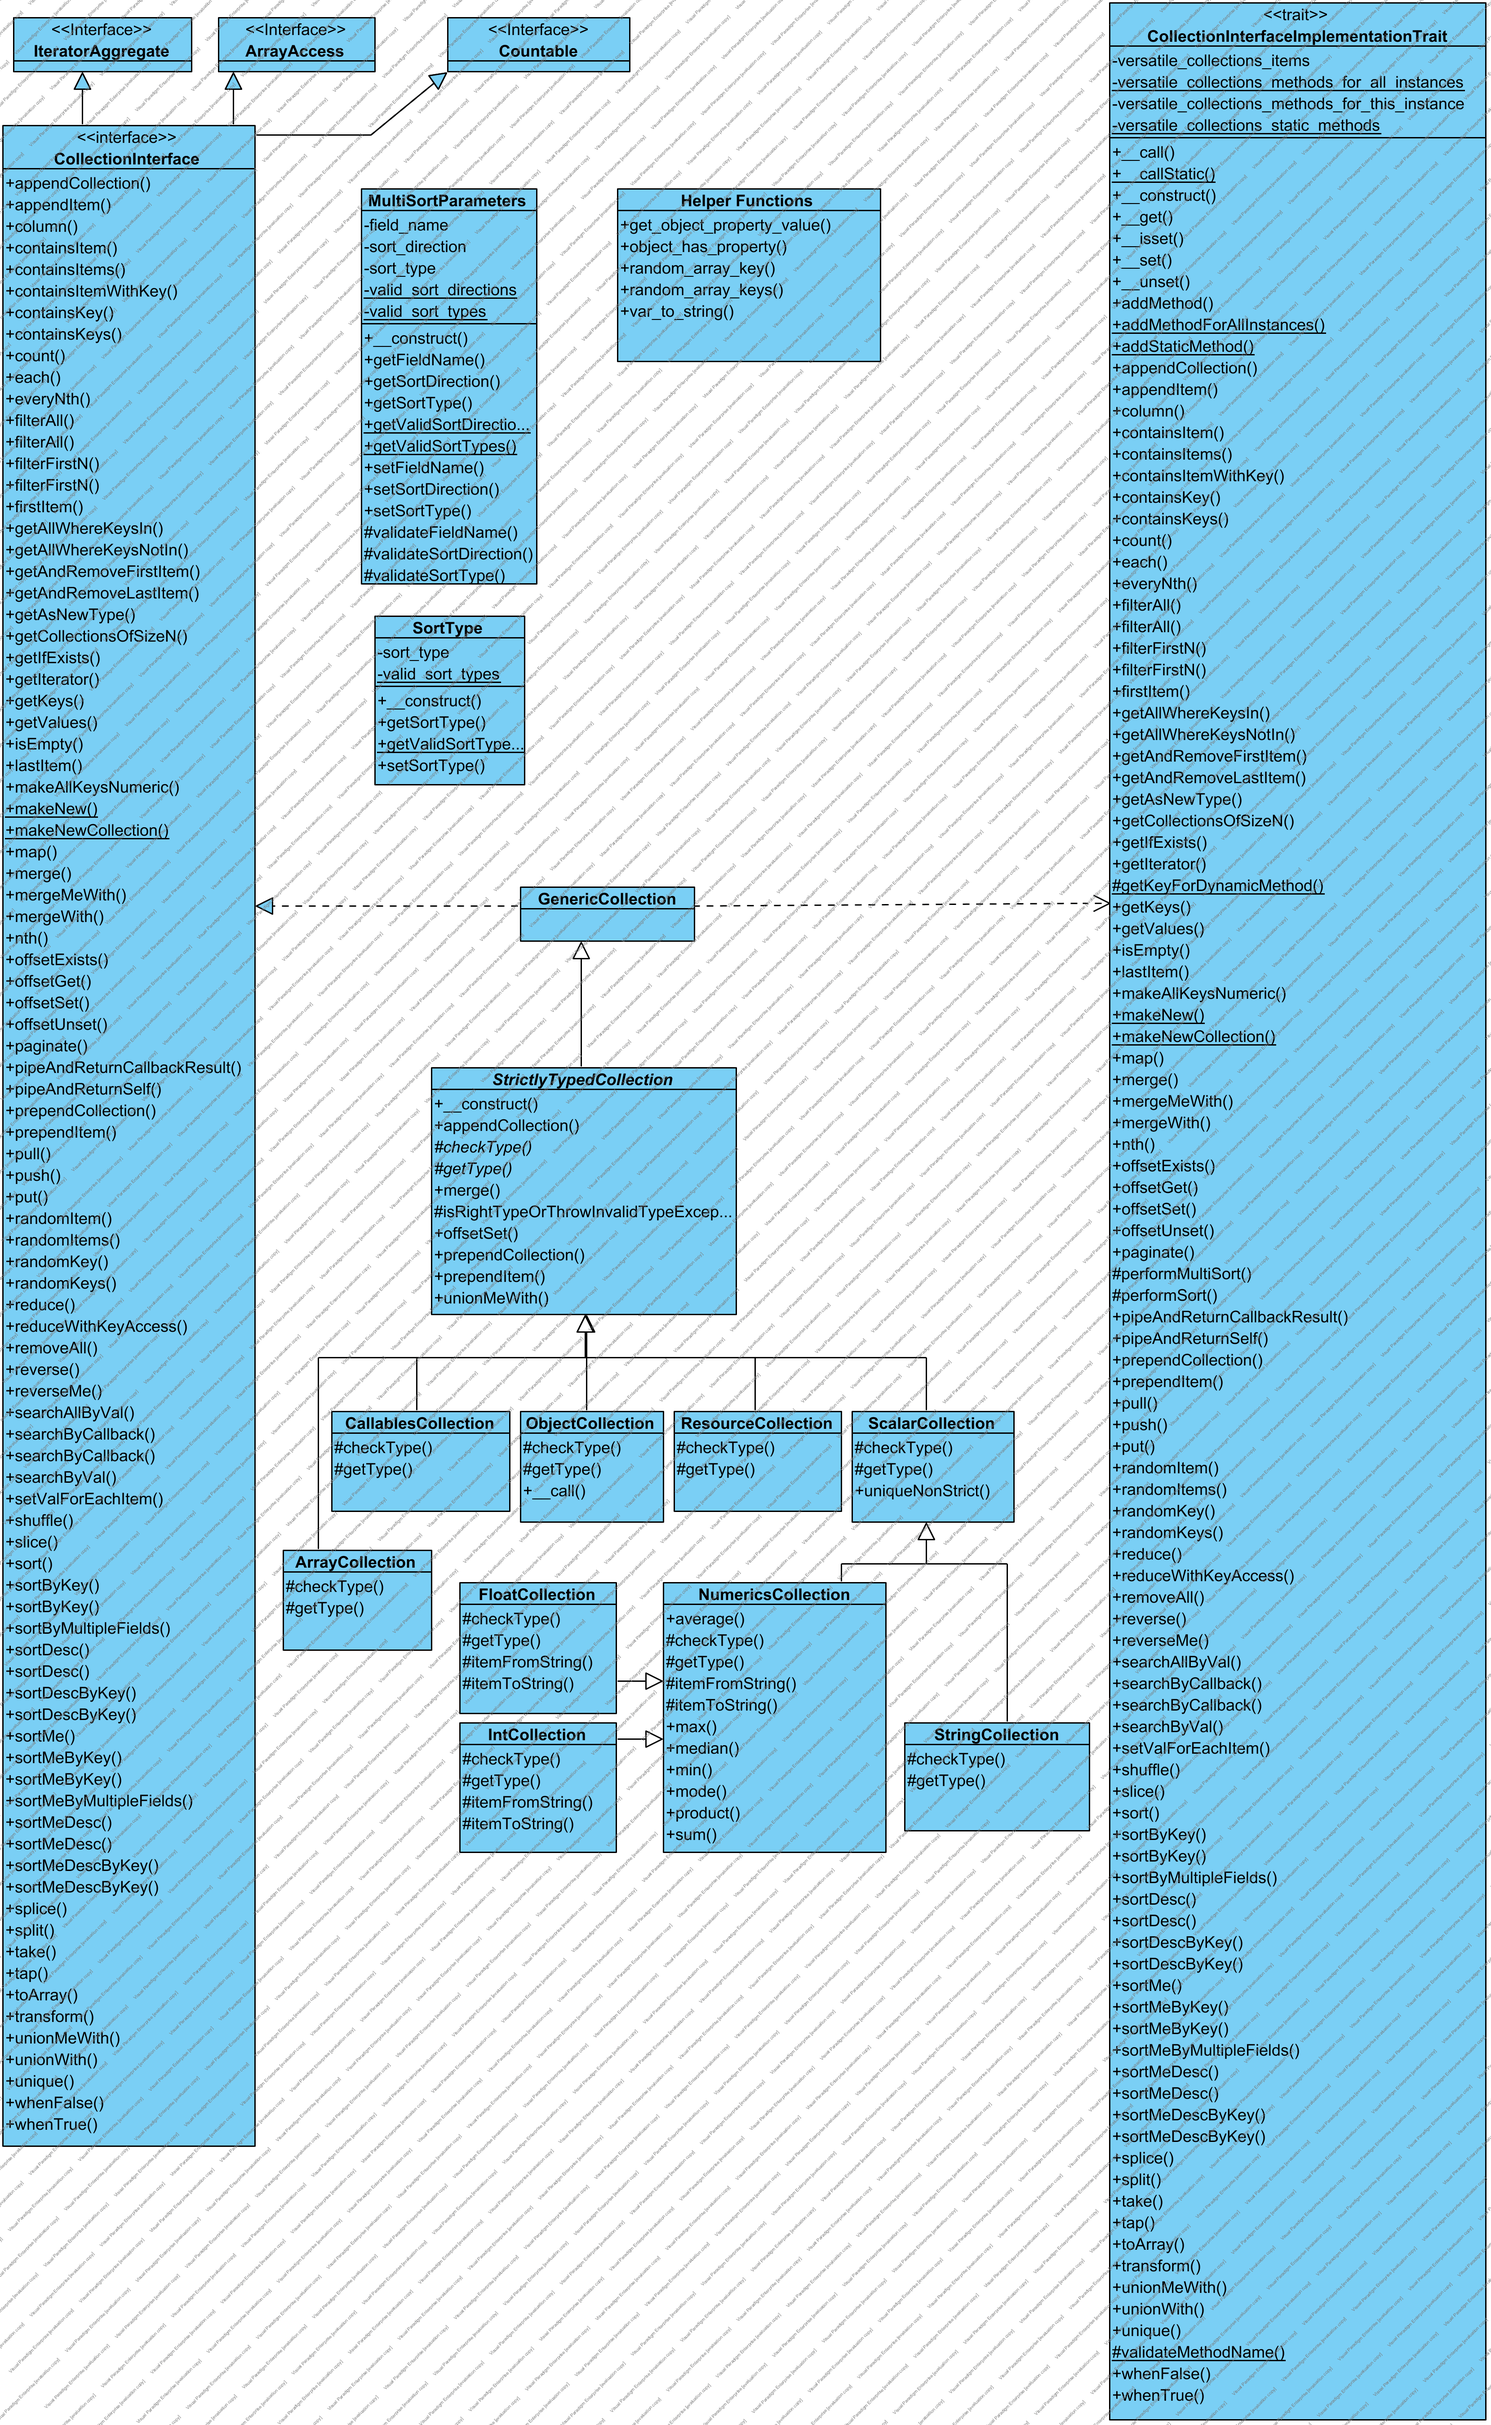
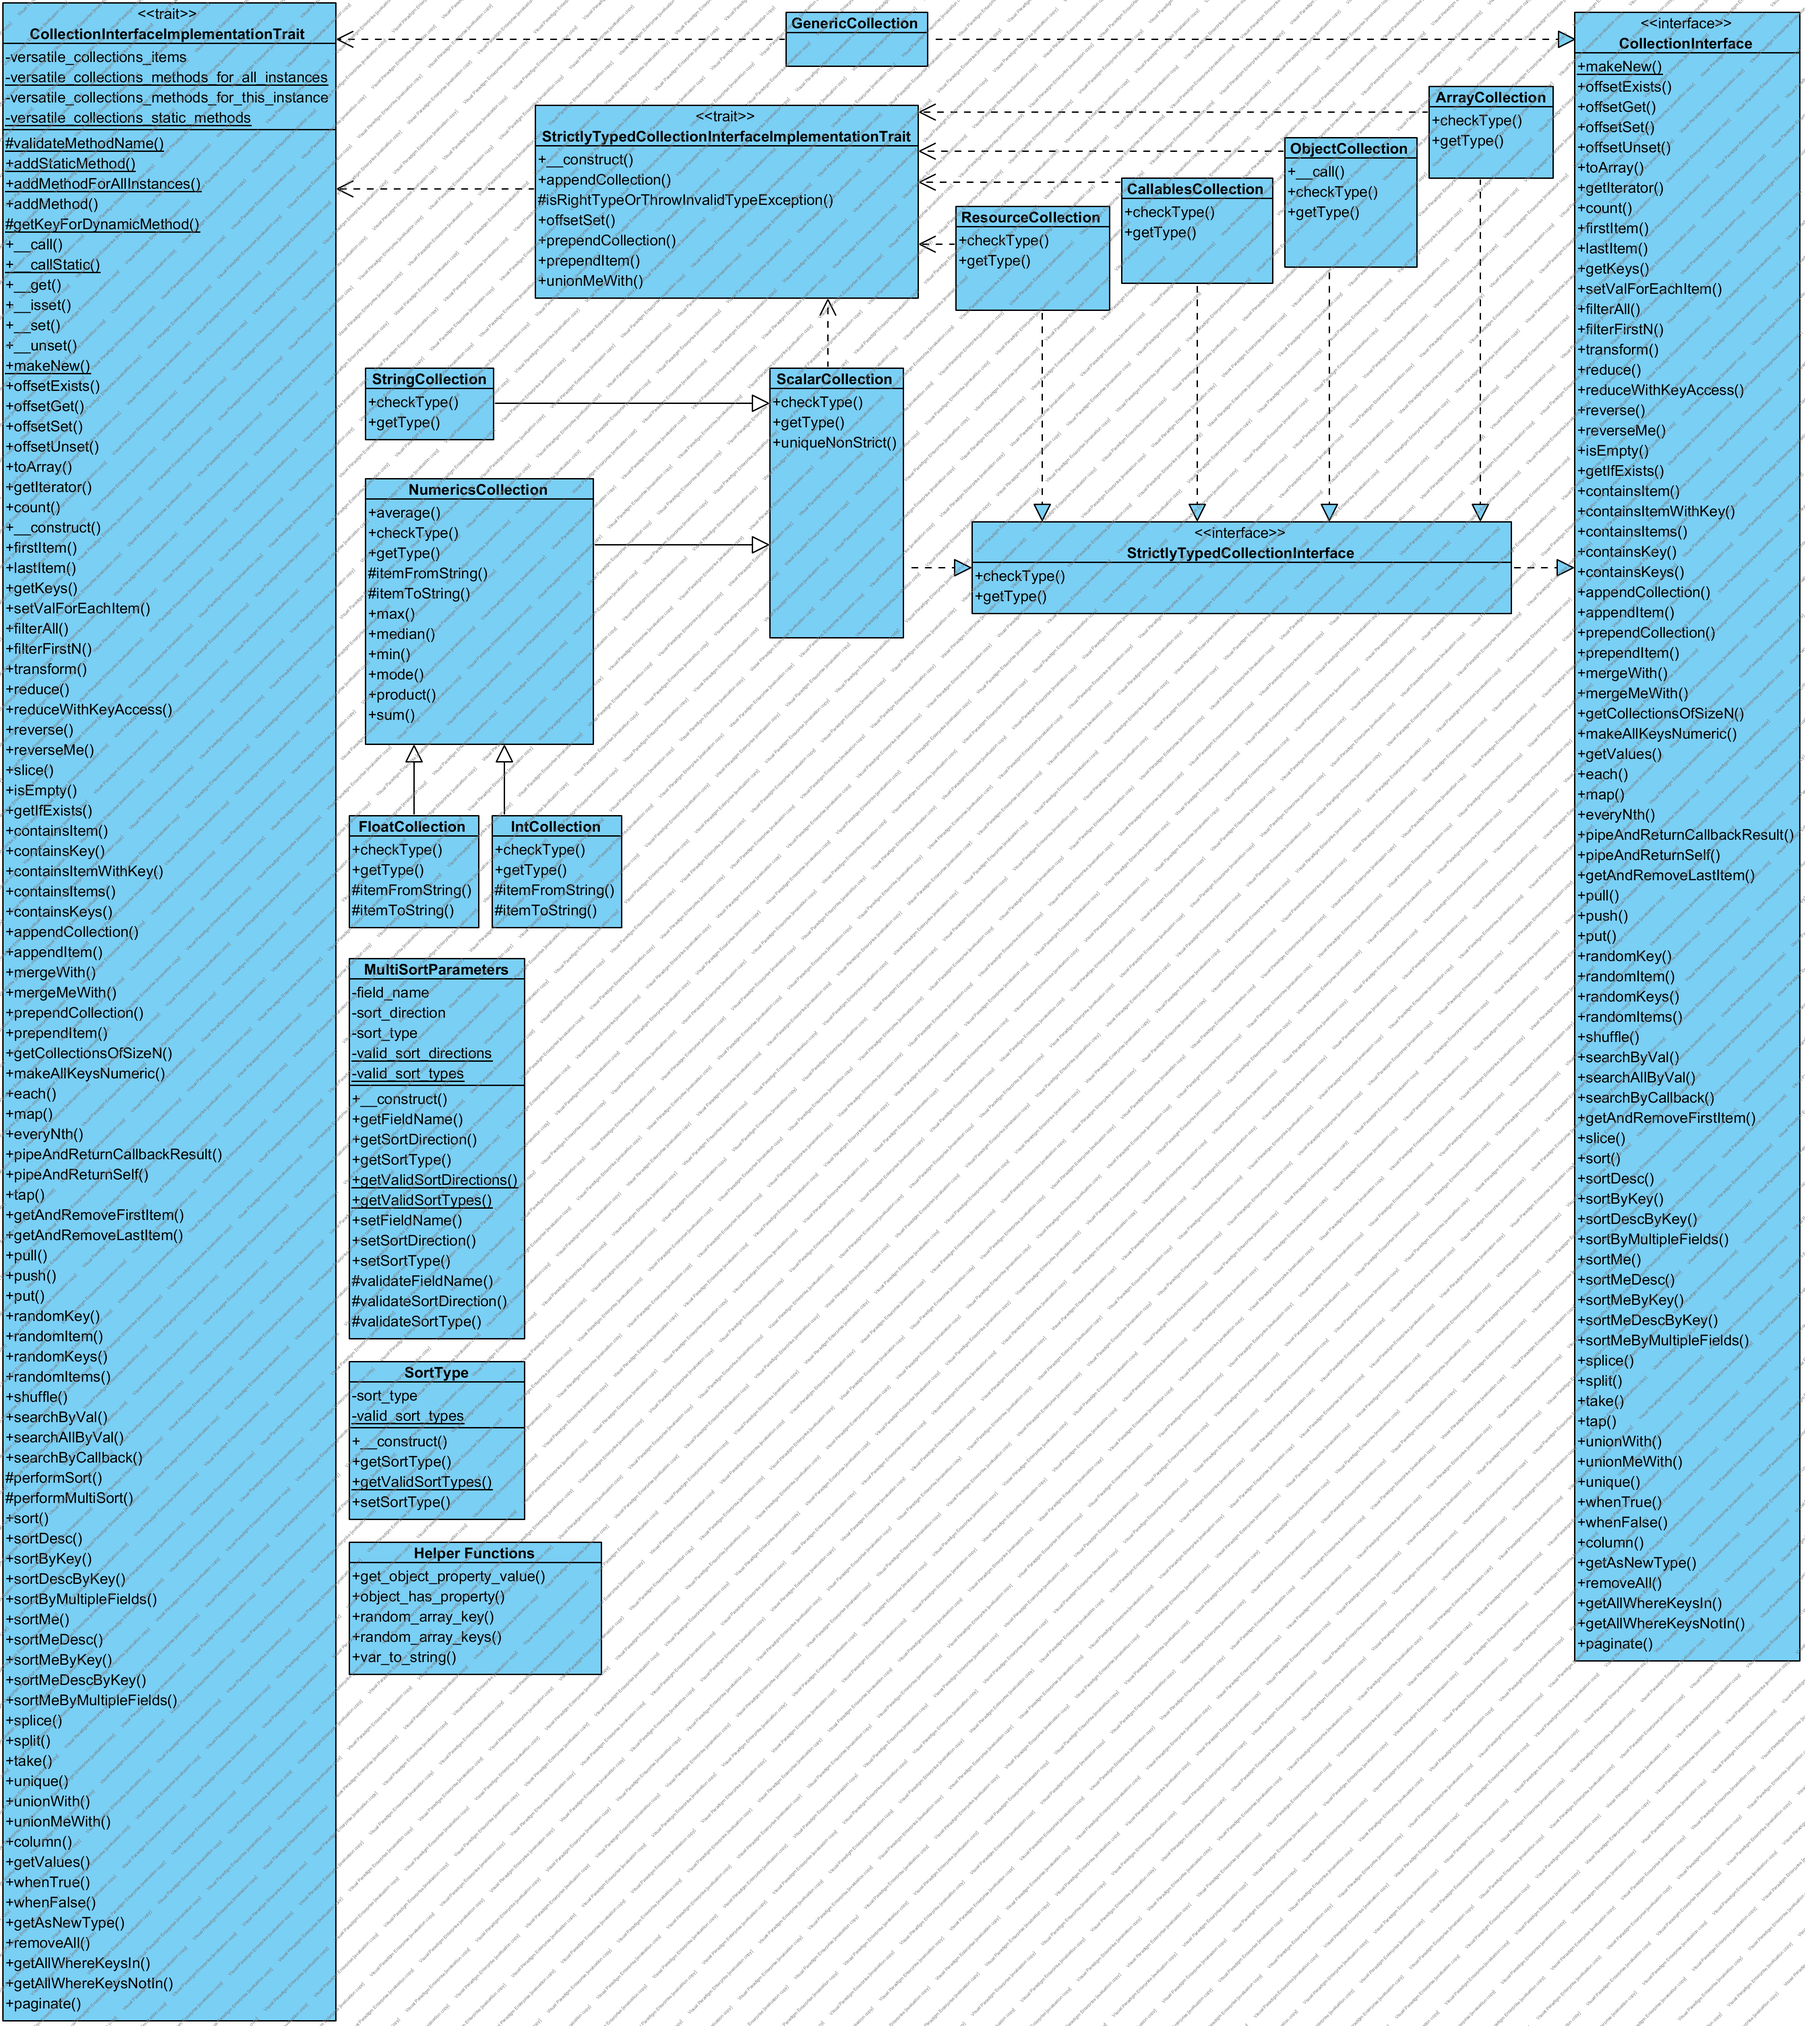
Major re-architecture. Got rid of the abstract StrictlyTypedCollection class. Replaced it with StrictlyTypedCollectionInterface and StrictlyTypedCollectionInterfaceImplementationTrait. Now consumers only need implement StrictlyTypedCollectionInterface by using StrictlyTypedCollectionInterfaceImpleme

diff --git a/src/StrictlyTypedCollectionInterfaceImplementationTrait.php b/src/StrictlyTypedCollectionInterfaceImplementationTrait.php
@@ -2,13 +2,18 @@
 namespace VersatileCollections;
 
 /**
- * 
- * Description of StrictlyTypedCollection
  *
  * @author aadegbam
- * 
  */
-abstract class StrictlyTypedCollection extends \VersatileCollections\GenericCollection {
+trait StrictlyTypedCollectionInterfaceImplementationTrait {
+    
+    use CollectionInterfaceImplementationTrait {
+        CollectionInterfaceImplementationTrait::appendCollection as parentAppendCollection;
+        CollectionInterfaceImplementationTrait::offsetSet as parentOffsetSet;
+        CollectionInterfaceImplementationTrait::prependCollection as parentPrependCollection;
+        CollectionInterfaceImplementationTrait::prependItem as parentPrependItem;
+        CollectionInterfaceImplementationTrait::unionMeWith as parentUnionMeWith;
+    }
     
     public function __construct(...$arr_objs) {
         
@@ -43,22 +48,8 @@ abstract class StrictlyTypedCollection extends \VersatileCollections\GenericColl
             throw new Exceptions\InvalidCollectionOperationException($msg);
         }
         
-        return parent::appendCollection($other);
+        return static::parentAppendCollection($other);
     }
-    
-    /**
-     * 
-     * @return bool true if $item is of the expected type, else false
-     * 
-     */
-    abstract protected function checkType($item);
-    
-    /**
-     * 
-     * @return string|array a string or array of strings of type name(s) for items acceptable in a collection
-     * 
-     */
-    abstract protected function getType();
     
     protected function isRightTypeOrThrowInvalidTypeException($item, $calling_functions_name) {
         
@@ -89,7 +80,7 @@ abstract class StrictlyTypedCollection extends \VersatileCollections\GenericColl
         
         $this->isRightTypeOrThrowInvalidTypeException($val, __FUNCTION__);
         
-        parent::offsetSet($key, $val);
+        static::parentOffsetSet($key, $val);
     }
     
     /**
@@ -113,7 +104,7 @@ abstract class StrictlyTypedCollection extends \VersatileCollections\GenericColl
             throw new Exceptions\InvalidCollectionOperationException($msg);
         }
         
-        return parent::prependCollection($other);
+        return static::parentPrependCollection($other);
     }
     
     /**
@@ -125,7 +116,7 @@ abstract class StrictlyTypedCollection extends \VersatileCollections\GenericColl
         
         $this->isRightTypeOrThrowInvalidTypeException($item, __FUNCTION__);
         
-        return parent::prependItem($item, $key);
+        return static::parentPrependItem($item, $key);
     }
     
     /**
@@ -140,6 +131,6 @@ abstract class StrictlyTypedCollection extends \VersatileCollections\GenericColl
             $this->isRightTypeOrThrowInvalidTypeException($item, __FUNCTION__);
         }
         
-        return parent::unionMeWith($items);
+        return static::parentUnionMeWith($items);
     }
 }

diff --git a/src/ObjectCollection.php b/src/ObjectCollection.php
@@ -6,7 +6,12 @@ namespace VersatileCollections;
  *
  * @author aadegbam
  */
-class ObjectCollection extends StrictlyTypedCollection {
+class ObjectCollection implements \VersatileCollections\StrictlyTypedCollectionInterface {
+    
+    use StrictlyTypedCollectionInterfaceImplementationTrait {
+        
+        StrictlyTypedCollectionInterfaceImplementationTrait::__call as parent__call;
+    }
     
     /**
      * 
@@ -24,7 +29,7 @@ class ObjectCollection extends StrictlyTypedCollection {
     public function __call($method_name, $arguments) {
 
         try {
-            $result = parent::__call($method_name, $arguments);
+            $result = static::parent__call($method_name, $arguments);
             
             return $result;
             
@@ -62,12 +67,12 @@ class ObjectCollection extends StrictlyTypedCollection {
         }
     }
     
-    protected function checkType($item) {
+    public function checkType($item) {
         
         return is_object($item);
     }
     
-    protected function getType() {
+    public function getType() {
         
         return 'object';
     }

diff --git a/src/ScalarCollection.php b/src/ScalarCollection.php
@@ -6,7 +6,9 @@ namespace VersatileCollections;
  *
  * @author aadegbam
  */
-class ScalarCollection extends StrictlyTypedCollection {
+class ScalarCollection implements \VersatileCollections\StrictlyTypedCollectionInterface {
+    
+    use StrictlyTypedCollectionInterfaceImplementationTrait;
 
     /**
      * 
@@ -17,7 +19,7 @@ class ScalarCollection extends StrictlyTypedCollection {
      * @return bool
      * 
      */
-    protected function checkType($item) {
+    public function checkType($item) {
         
         return is_scalar($item);
     }
@@ -28,7 +30,7 @@ class ScalarCollection extends StrictlyTypedCollection {
      * @return string
      * 
      */
-    protected function getType() {
+    public function getType() {
         
         return 'scalar';
     }

diff --git a/src/ResourceCollection.php b/src/ResourceCollection.php
@@ -7,14 +7,16 @@ namespace VersatileCollections;
  *
  * @author aadegbam
  */
-class ResourceCollection extends StrictlyTypedCollection {
+class ResourceCollection implements \VersatileCollections\StrictlyTypedCollectionInterface {
+    
+    use StrictlyTypedCollectionInterfaceImplementationTrait;
 
-    protected function checkType($item) {
+    public function checkType($item) {
         
         return is_resource($item);
     }
     
-    protected function getType() {
+    public function getType() {
         
         return 'resource';
     }

diff --git a/src/CallablesCollection.php b/src/CallablesCollection.php
@@ -6,14 +6,16 @@ namespace VersatileCollections;
  *
  * @author aadegbam
  */
-class CallablesCollection extends StrictlyTypedCollection {
+class CallablesCollection implements \VersatileCollections\StrictlyTypedCollectionInterface {
+    
+    use StrictlyTypedCollectionInterfaceImplementationTrait;
 
-    protected function checkType($item) {
+    public function checkType($item) {
         
         return is_callable($item);
     }
 
-    protected function getType() {
+    public function getType() {
         
         return 'callable';
     }

diff --git a/src/ArrayCollection.php b/src/ArrayCollection.php
@@ -6,14 +6,16 @@ namespace VersatileCollections;
  *
  * @author aadegbam
  */
-class ArrayCollection extends StrictlyTypedCollection {
+class ArrayCollection implements \VersatileCollections\StrictlyTypedCollectionInterface {
+    
+    use StrictlyTypedCollectionInterfaceImplementationTrait;
 
-    protected function checkType($item) {
+    public function checkType($item) {
         
         return is_array($item);
     }
 
-    protected function getType() {
+    public function getType() {
         
         return 'array';
     }

diff --git a/src/StrictlyTypedCollectionInterface.php b/src/StrictlyTypedCollectionInterface.php
@@ -1,0 +1,23 @@
+<?php
+namespace VersatileCollections;
+
+/**
+ *
+ * @author Rotimi Ade
+ */
+interface StrictlyTypedCollectionInterface extends CollectionInterface {
+
+    /**
+     * 
+     * @return bool true if $item is of the expected type, else false
+     * 
+     */
+    public function checkType($item);
+    
+    /**
+     * 
+     * @return string|array a string or array of strings of type name(s) for items acceptable in a collection
+     * 
+     */
+    public function getType();
+}

diff --git a/src/NumericsCollection.php b/src/NumericsCollection.php
@@ -26,7 +26,7 @@ class NumericsCollection extends ScalarCollection {
      * @return bool
      * 
      */
-    protected function checkType($item) {
+    public function checkType($item) {
         
         return is_float($item) || is_int($item);
     }
@@ -38,7 +38,7 @@ class NumericsCollection extends ScalarCollection {
      * @return string
      * 
      */
-    protected function getType() {
+    public function getType() {
         
         return 'numeric';
     }

diff --git a/tests/objects/TestValueObjectCollection.php b/tests/objects/TestValueObjectCollection.php
@@ -12,12 +12,12 @@ class TestValueObjectCollection extends \VersatileCollections\ObjectCollection {
         $this->versatile_collections_items = $arr_objs;
     }
 
-    protected function checkType($item) {
+    public function checkType($item) {
         
         return ($item instanceof TestValueObject);
     }
     
-    protected function getType() {
+    public function getType() {
         
         return \TestValueObject::class;
     }

diff --git a/src/StringCollection.php b/src/StringCollection.php
@@ -8,12 +8,12 @@ namespace VersatileCollections;
  */
 class StringCollection  extends ScalarCollection {
 
-    protected function checkType($item) {
+    public function checkType($item) {
         
         return is_string($item);
     }
 
-    protected function getType() {
+    public function getType() {
         
         return 'string';
     }

diff --git a/src/FloatCollection.php b/src/FloatCollection.php
@@ -8,12 +8,12 @@ namespace VersatileCollections;
  */
 class FloatCollection extends NumericsCollection {
 
-    protected function checkType($item) {
+    public function checkType($item) {
         
         return is_float($item);
     }
 
-    protected function getType() {
+    public function getType() {
         
         return 'float';
     }

diff --git a/src/IntCollection.php b/src/IntCollection.php
@@ -8,12 +8,12 @@ namespace VersatileCollections;
  */
 class IntCollection extends NumericsCollection {
 
-    protected function checkType($item) {
+    public function checkType($item) {
         
         return is_int($item);
     }
 
-    protected function getType() {
+    public function getType() {
         
         return 'int';
     }
